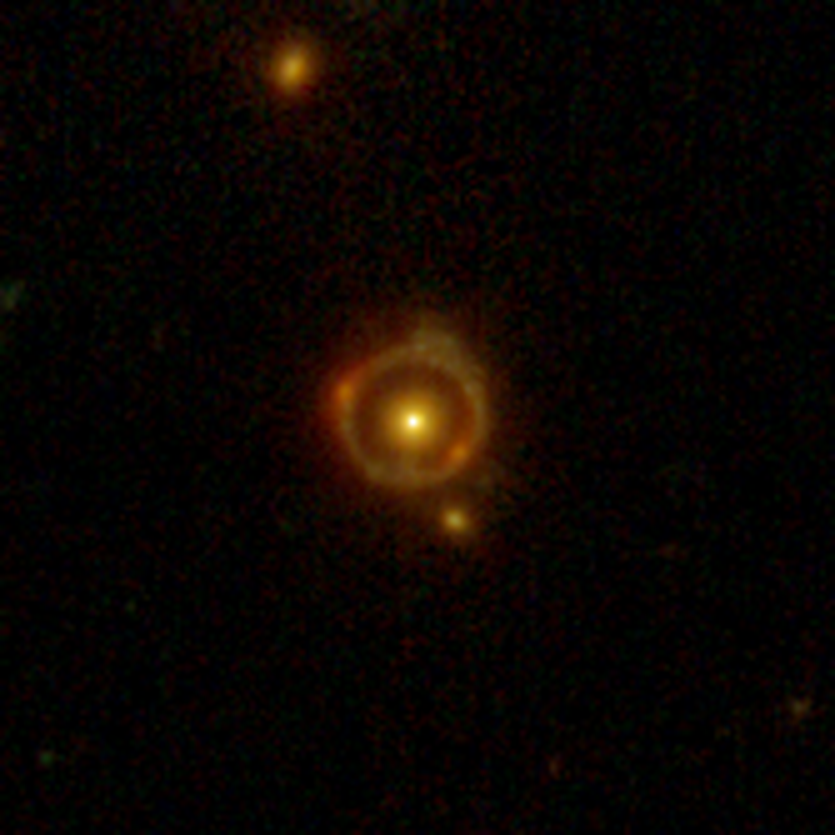
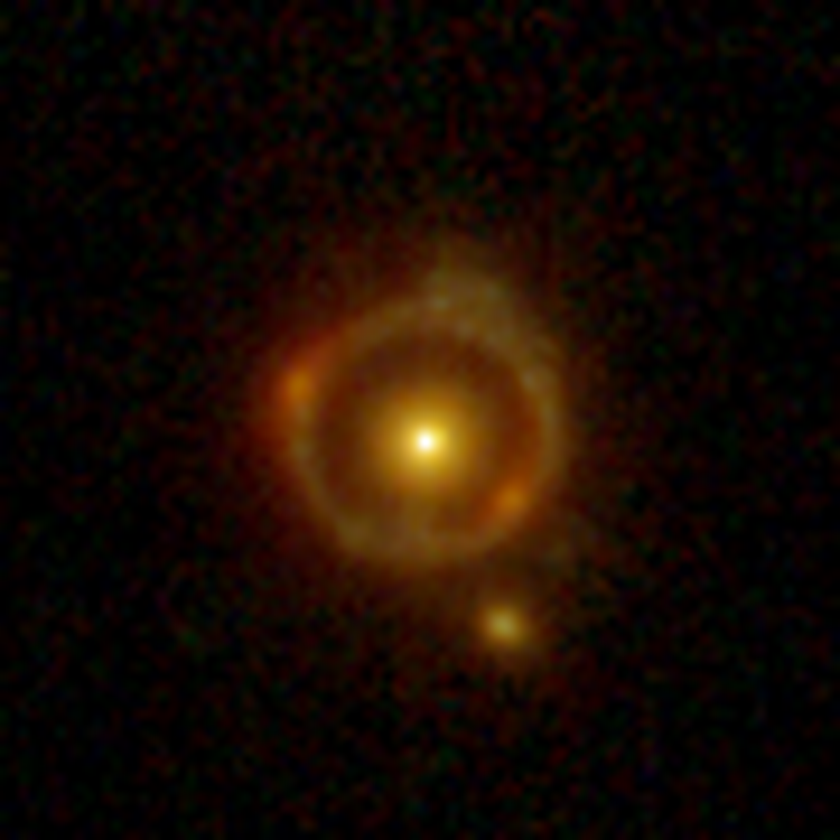
docs: crop the COSMOS-Web Ring web image to the ring

diff --git a/docs/make_readme_figures.py b/docs/make_readme_figures.py
@@ -270,32 +270,49 @@ print(f"Figure written to: {OUTPUT_PATH.resolve()}")
 
 """__Web image__
 
-The picture the website and the greeting prompt lead with: the same COWLS RGB
-composite, upscaled cleanly and nothing else — no model output, no arrows, no
-labels — so it can be used as a press-ready image. A 5x Lanczos resample takes
-the 167-pixel cutout to 835 pixels, sharp at the ~800 pixel widths a web page
+The picture the website and the greeting prompt lead with: the COWLS RGB
+composite cropped to the ring and upscaled cleanly, and nothing else — no model
+output, no arrows, no labels — so it can be used as a press-ready image.
+
+The ring fills only the central ~45 pixels of the 167-pixel cutout, so on a web
+page the full frame reads as a dot. A 90-pixel (5.4") square centred on the lens
+keeps the whole ring, the small companion galaxy just below-right of it and a
+dark margin, while dropping the bright unrelated galaxy at the top of the frame.
+A Lanczos resample takes that crop to 840 pixels, sharp at the widths a web page
 shows it at, while keeping the committed PNG well under 1 MB.
 
 The 1.8" mask circle is available as a thin optional overlay but is off by
 default: on its own the ring reads better unframed.
 """
 
-WEB_UPSCALE = 5
+WEB_CROP_SIZE = 90
+WEB_OUTPUT_SIZE = 840
 WEB_MASK_CIRCLE = False
 
 
-def web_image(upscale=WEB_UPSCALE, mask_circle=WEB_MASK_CIRCLE):
-    image = Image.open(RGB_PATH).convert("RGB")
-    size = image.width * upscale
-    image = image.resize((size, size), resample=Image.LANCZOS)
+def web_crop_box(size=WEB_CROP_SIZE):
+    """(left, upper, right, lower) of a square crop centred on the lens, in the
+    RGB's top-row-first pixel frame (PIL's crop convention)."""
+    y, x = LENS_CENTRE
+    half = size // 2
+    return (x - half, y - half, x - half + size, y - half + size)
+
+
+def web_image(output_size=WEB_OUTPUT_SIZE, mask_circle=WEB_MASK_CIRCLE):
+    box = web_crop_box()
+    image = Image.open(RGB_PATH).convert("RGB").crop(box)
+    scale = output_size / image.width
+    image = image.resize((output_size, output_size), resample=Image.LANCZOS)
     if mask_circle:
         draw = ImageDraw.Draw(image)
-        y, x = ((c + 0.5) * upscale for c in LENS_CENTRE)
-        r = MASK_RADIUS_ARCSEC / PIXEL_SCALE * upscale
+        y = (LENS_CENTRE[0] - box[1] + 0.5) * scale
+        x = (LENS_CENTRE[1] - box[0] + 0.5) * scale
+        r = MASK_RADIUS_ARCSEC / PIXEL_SCALE * scale
         draw.ellipse((x - r, y - r, x + r, y + r), outline=(0, 255, 255), width=2)
     return image
 
 
 web_image().save(WEB_OUTPUT_PATH, optimize=True)
 
+print(f"Web image crop box (left, upper, right, lower): {web_crop_box()}")
 print(f"Web image written to: {WEB_OUTPUT_PATH.resolve()}")

diff --git a/docs/images/sources/README.md b/docs/images/sources/README.md
@@ -12,8 +12,11 @@ README figures can be rebuilt without network access.
 `docs/images/cosmos_web_ring_rgb.png` is the press-ready picture the website and the public
 greeting prompt lead with. It is `cosmos_web_ring_6_rgb.png` above — source repository
 [Jammy2211/COWLS_COSMOS_Web_Lens_Survey](https://github.com/Jammy2211/COWLS_COSMOS_Web_Lens_Survey),
-object COSJ100024+015334 — upscaled 5x (167 → 835 pixels, Lanczos) by the "Web image" section of
-`docs/make_readme_figures.py`, with no model output and no annotation. Rebuild it with
+object COSJ100024+015334 — as a ~90 px crop centred on the lens (a 90 x 90 pixel, 5.4" square,
+crop box `(left, upper, right, lower) = (37, 37, 127, 127)` of the 167-pixel frame: the full ring
+and the small companion galaxy, without the unrelated bright galaxy at the top), Lanczos-upscaled
+to 840 x 840 pixels by the "Web image" section of `docs/make_readme_figures.py`, with no model
+output and no annotation. Rebuild it with
 `python docs/make_readme_figures.py`.
 
 Credit: COWLS — Nightingale et al. 2025, *COSMOS-Web Lens Survey (COWLS) I*
